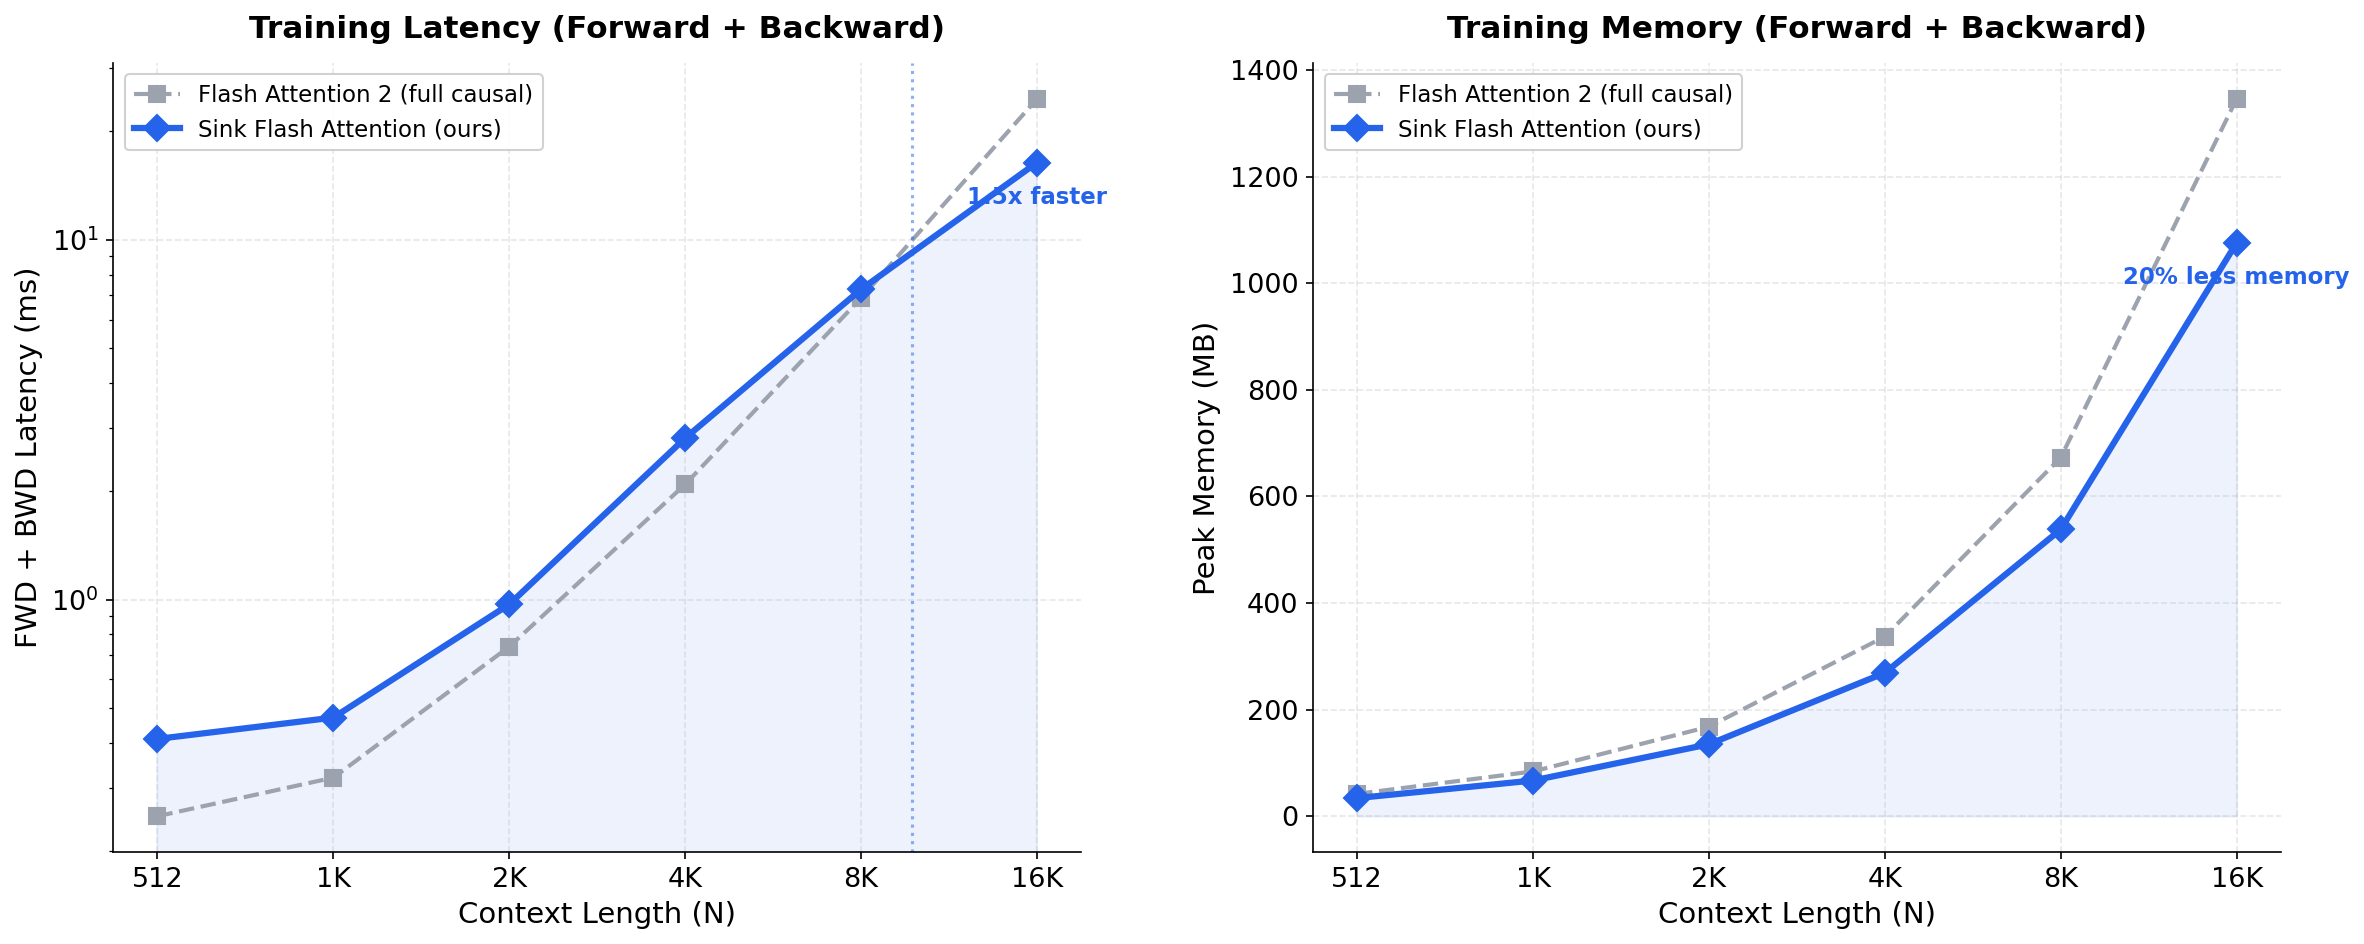
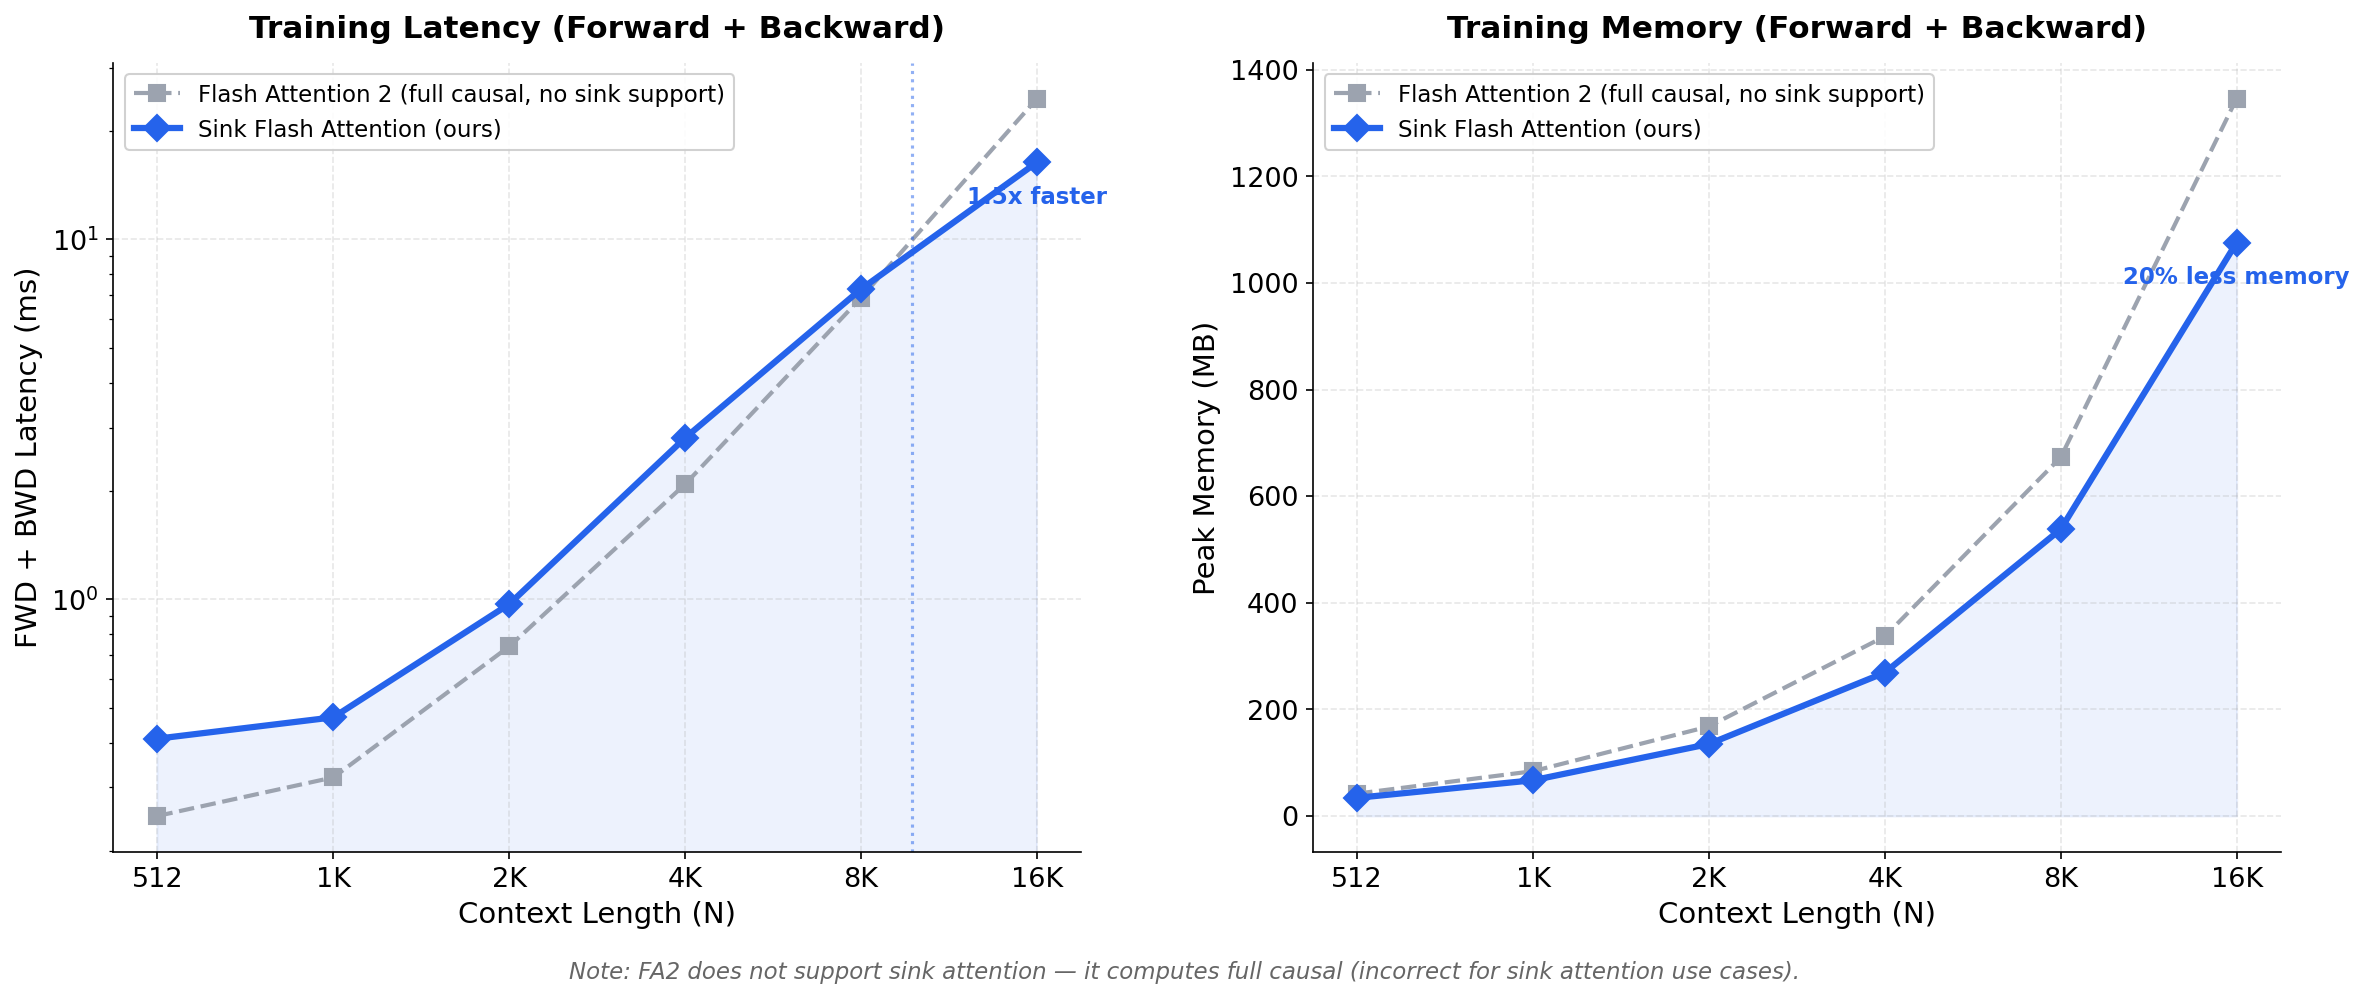
Add caption noting FA2 does not support sink attention

diff --git a/scripts/plot_benchmarks.py b/scripts/plot_benchmarks.py
@@ -64,7 +64,7 @@ ax1.plot(eager_valid_n, eager_valid_ms, 'o--', color=EAGER_COLOR, linewidth=2,
 
 # FA2
 ax1.plot(N, fa2_ms, 's--', color=FA2_COLOR, linewidth=2, markersize=8,
-         label='Flash Attention 2 (full causal)', zorder=2)
+         label='Flash Attention 2 (full causal, no sink support)', zorder=2)
 
 # Sink FA (highlighted)
 ax1.plot(N, sink_fa_ms, 'D-', color=SINK_COLOR, linewidth=3, markersize=9,
@@ -141,6 +141,10 @@ ax2.set_xticklabels(['512', '1K', '2K', '4K', '8K', '16K', '32K'])
 ax2.legend(loc='upper left', fontsize=11, framealpha=0.9)
 ax2.set_ylim(2, 25000)
 
+fig.text(0.5, -0.02,
+         'Note: FA2 does not support sink attention — it computes full causal (incorrect for sink attention use cases).',
+         ha='center', fontsize=11, style='italic', color='#666666')
+
 plt.tight_layout(w_pad=3)
 plt.savefig('/home/rulin/sink_attention/docs/performance.png', dpi=150, bbox_inches='tight',
             facecolor='white', edgecolor='none')
@@ -155,7 +159,7 @@ fig2, axes2 = plt.subplots(1, 2, figsize=(16, 6.5))
 
 ax3 = axes2[0]
 ax3.plot(N_train, fa2_train_ms, 's--', color=FA2_COLOR, linewidth=2, markersize=8,
-         label='Flash Attention 2 (full causal)', zorder=2)
+         label='Flash Attention 2 (full causal, no sink support)', zorder=2)
 ax3.plot(N_train, sink_fa_train_ms, 'D-', color=SINK_COLOR, linewidth=3, markersize=9,
          label='Sink Flash Attention (ours)', zorder=3)
 ax3.fill_between(N_train, [0]*len(N_train), sink_fa_train_ms, alpha=0.08, color=SINK_COLOR)
@@ -180,7 +184,7 @@ ax3.legend(loc='upper left', fontsize=11, framealpha=0.9)
 
 ax4 = axes2[1]
 ax4.plot(N_train, fa2_train_mem, 's--', color=FA2_COLOR, linewidth=2, markersize=8,
-         label='Flash Attention 2 (full causal)', zorder=2)
+         label='Flash Attention 2 (full causal, no sink support)', zorder=2)
 ax4.plot(N_train, sink_fa_train_mem, 'D-', color=SINK_COLOR, linewidth=3, markersize=9,
          label='Sink Flash Attention (ours)', zorder=3)
 ax4.fill_between(N_train, [0]*len(N_train), sink_fa_train_mem, alpha=0.08, color=SINK_COLOR)
@@ -197,6 +201,10 @@ ax4.set_title('Training Memory (Forward + Backward)', fontsize=15, fontweight='b
 ax4.set_xticks(N_train)
 ax4.set_xticklabels(['512', '1K', '2K', '4K', '8K', '16K'])
 ax4.legend(loc='upper left', fontsize=11, framealpha=0.9)
+
+fig2.text(0.5, -0.02,
+          'Note: FA2 does not support sink attention — it computes full causal (incorrect for sink attention use cases).',
+          ha='center', fontsize=11, style='italic', color='#666666')
 
 plt.tight_layout(w_pad=3)
 plt.savefig('/home/rulin/sink_attention/docs/training.png', dpi=150, bbox_inches='tight',
